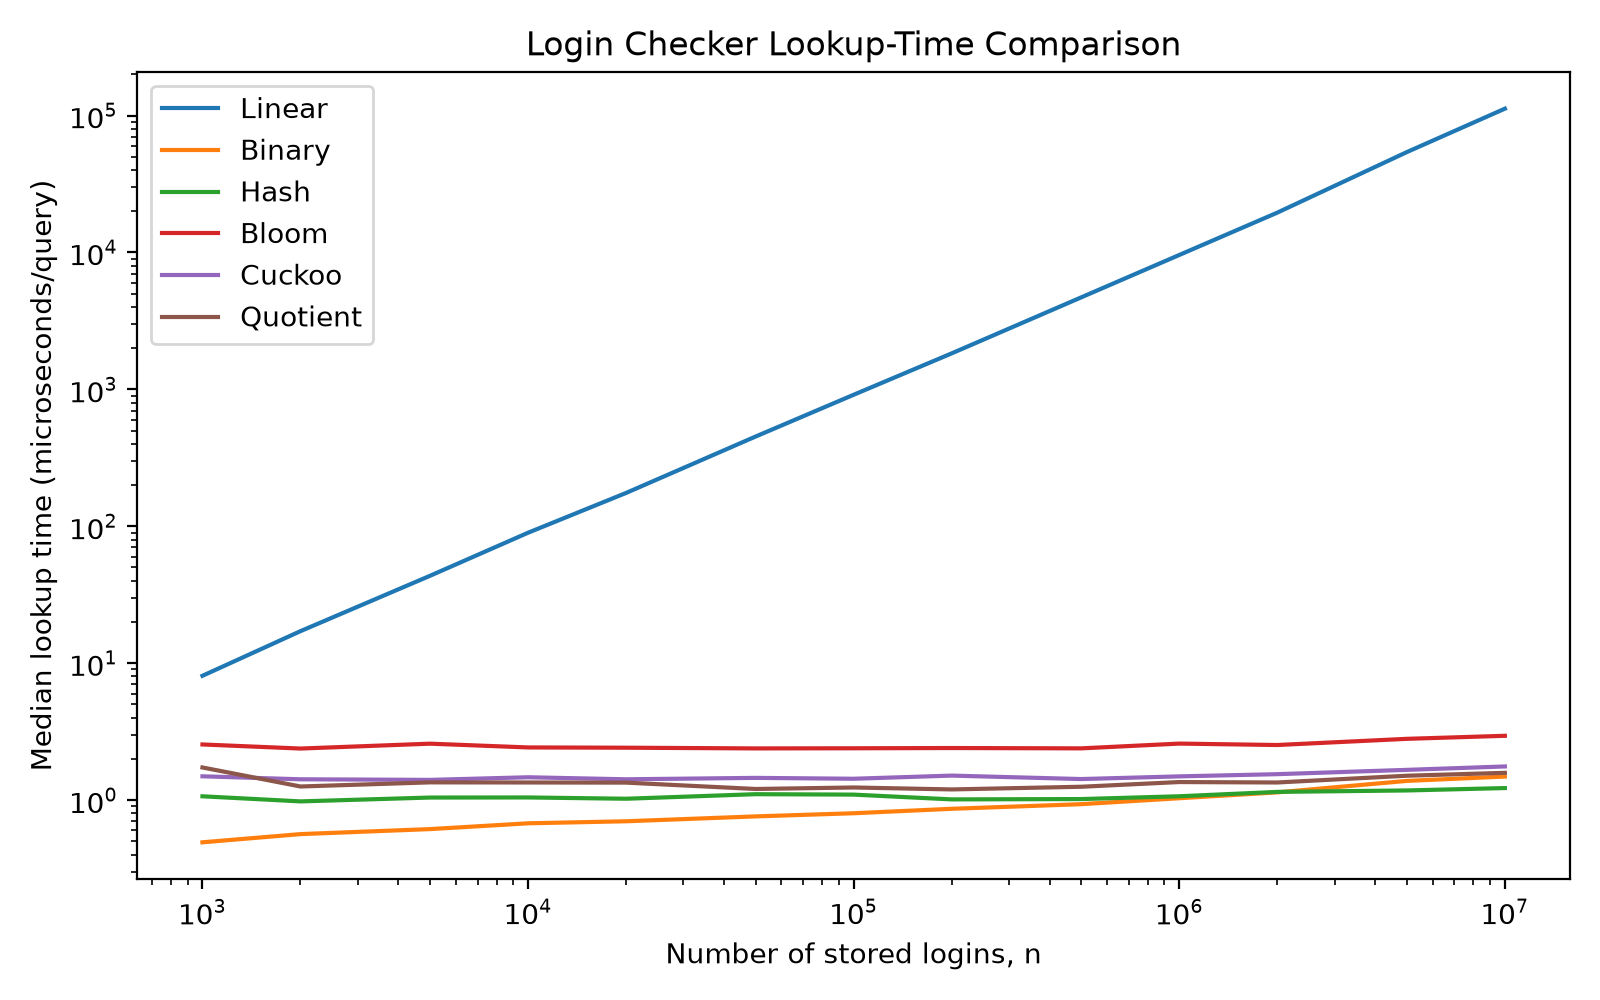
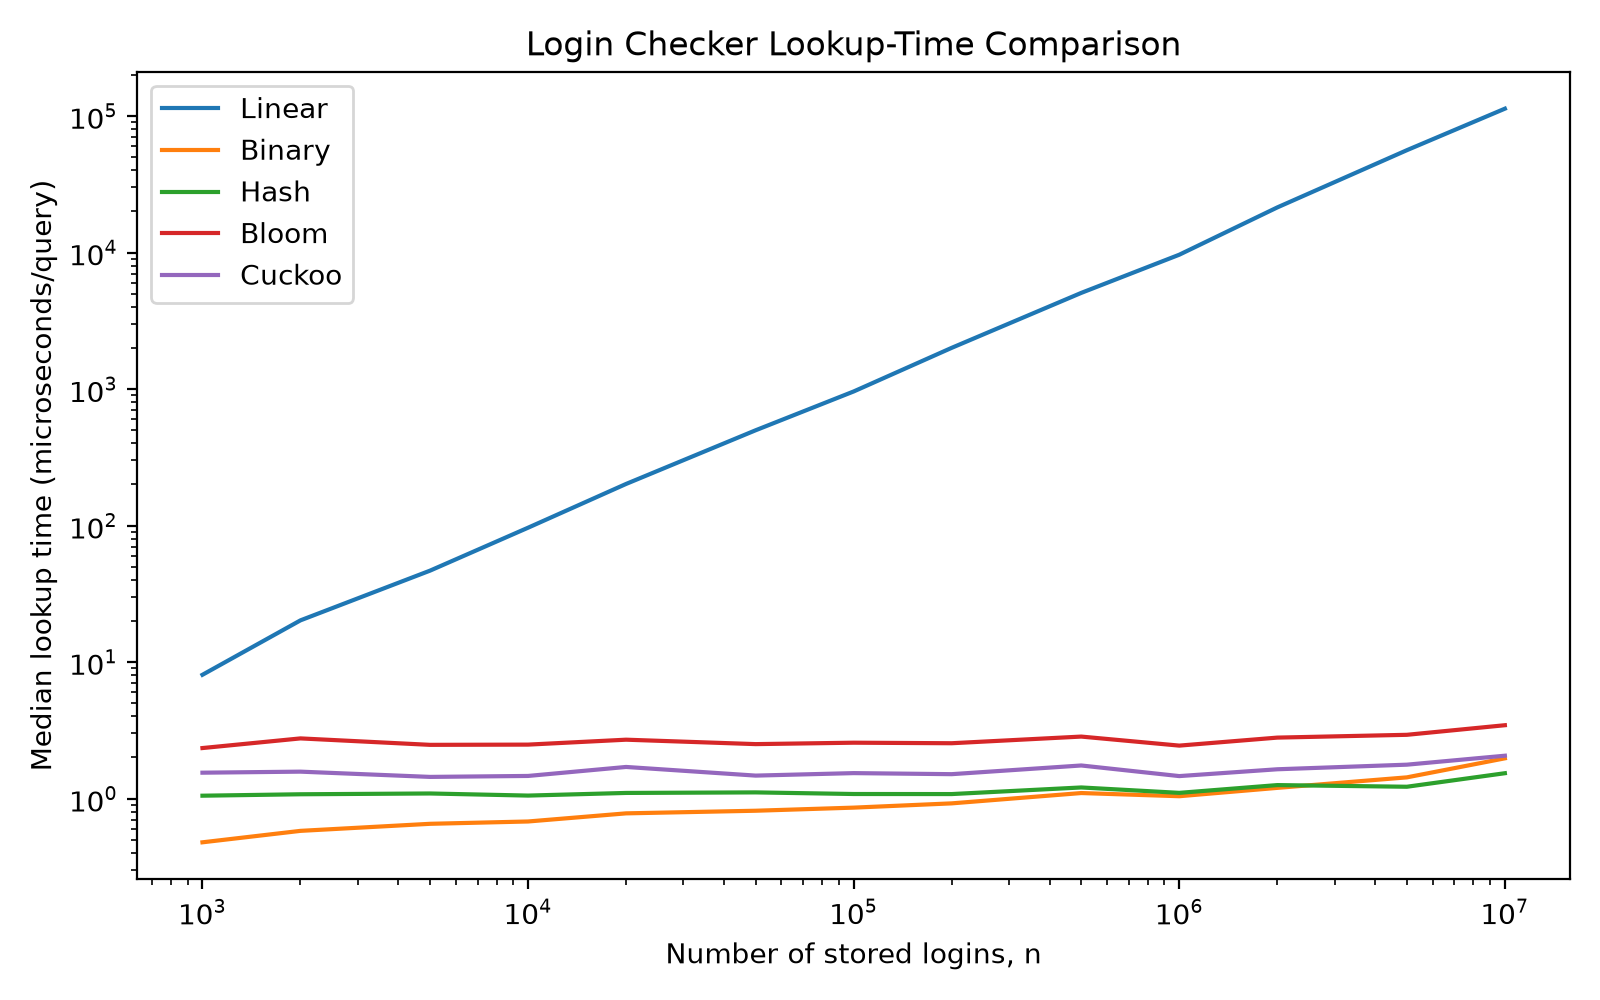
Final run

diff --git a/benchmark.py b/benchmark.py
@@ -83,15 +83,20 @@ def measure_filter_accuracy(search_fn, usernames, count=FPR_QUERIES):
 def plot_results(rows):
     import matplotlib.pyplot as plt
 
-    methods = ["Linear", "Binary", "Hash", "Bloom", "Cuckoo", "Quotient"]
+    # Plot 1: Compare the five required methods.
+    methods = ["Linear", "Binary", "Hash", "Bloom", "Cuckoo"]
+
     plt.figure(figsize=(8, 5))
 
     for method in methods:
-        points = sorted((n, runtime) for n, name, runtime in rows if name == method)
+        points = sorted(
+            (n, runtime)
+            for n, name, runtime in rows
+            if name == method
+        )
         x, y = zip(*points)
         plt.plot(x, y, label=method)
-        
-    # logarithmic scale is used. 
+
     plt.xscale("log")
     plt.yscale("log")
     plt.xlabel("Number of stored logins, n")
@@ -100,6 +105,31 @@ def plot_results(rows):
     plt.legend()
     plt.tight_layout()
     plt.savefig("lookup_runtime.png", dpi=200)
+    plt.close()
+
+
+    # Plot 2: Compare the probabilistic filters.
+    filter_methods = ["Bloom", "Cuckoo", "Quotient"]
+
+    plt.figure(figsize=(8, 5))
+
+    for method in filter_methods:
+        points = sorted(
+            (n, runtime)
+            for n, name, runtime in rows
+            if name == method
+        )
+        x, y = zip(*points)
+        plt.plot(x, y, label=method)
+
+    plt.xscale("log")
+    plt.yscale("log")
+    plt.xlabel("Number of stored logins, n")
+    plt.ylabel("Median lookup time (microseconds/query)")
+    plt.title("Probabilistic Filter Lookup-Time Comparison")
+    plt.legend()
+    plt.tight_layout()
+    plt.savefig("filter_runtime.png", dpi=200)
     plt.close()
 
 # All methods over several dataset size. 
